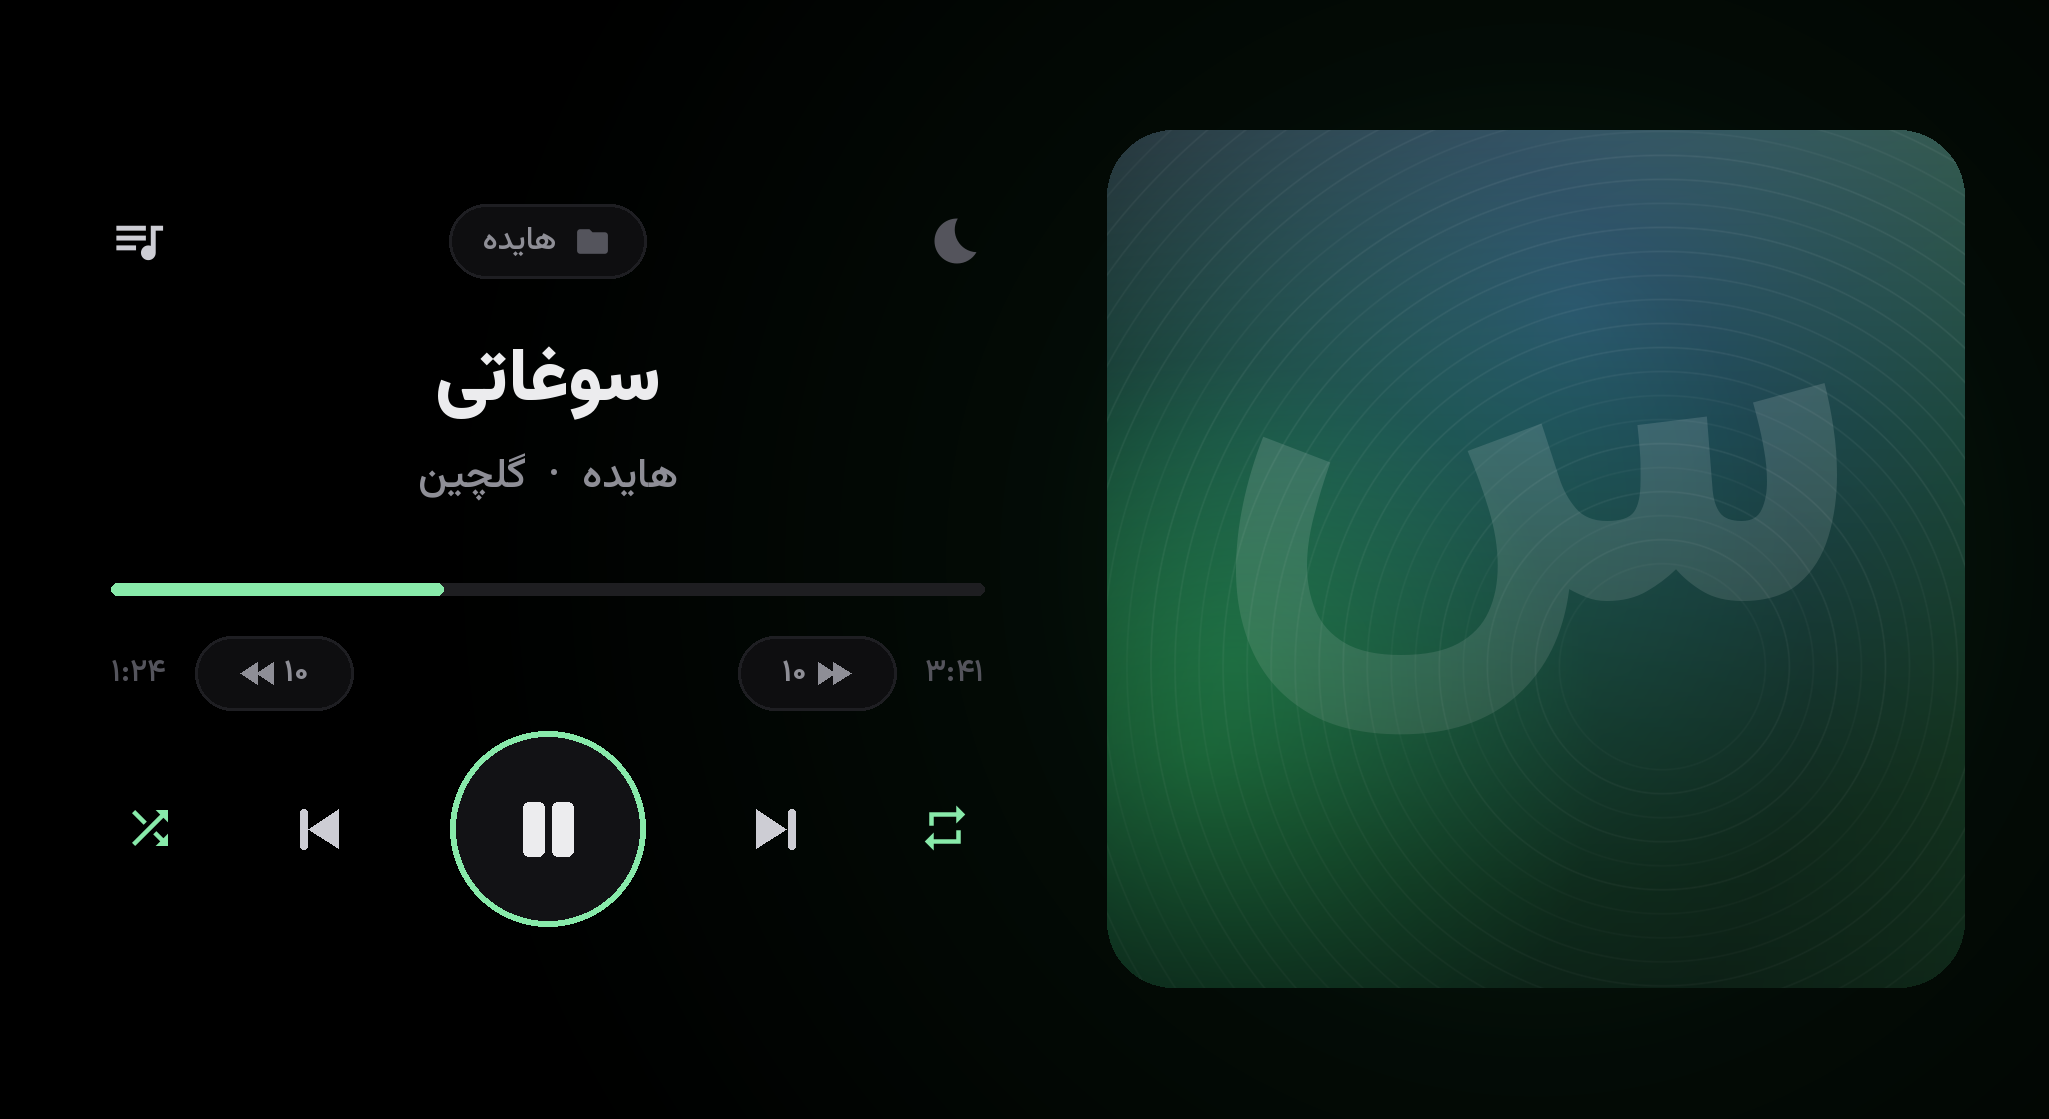
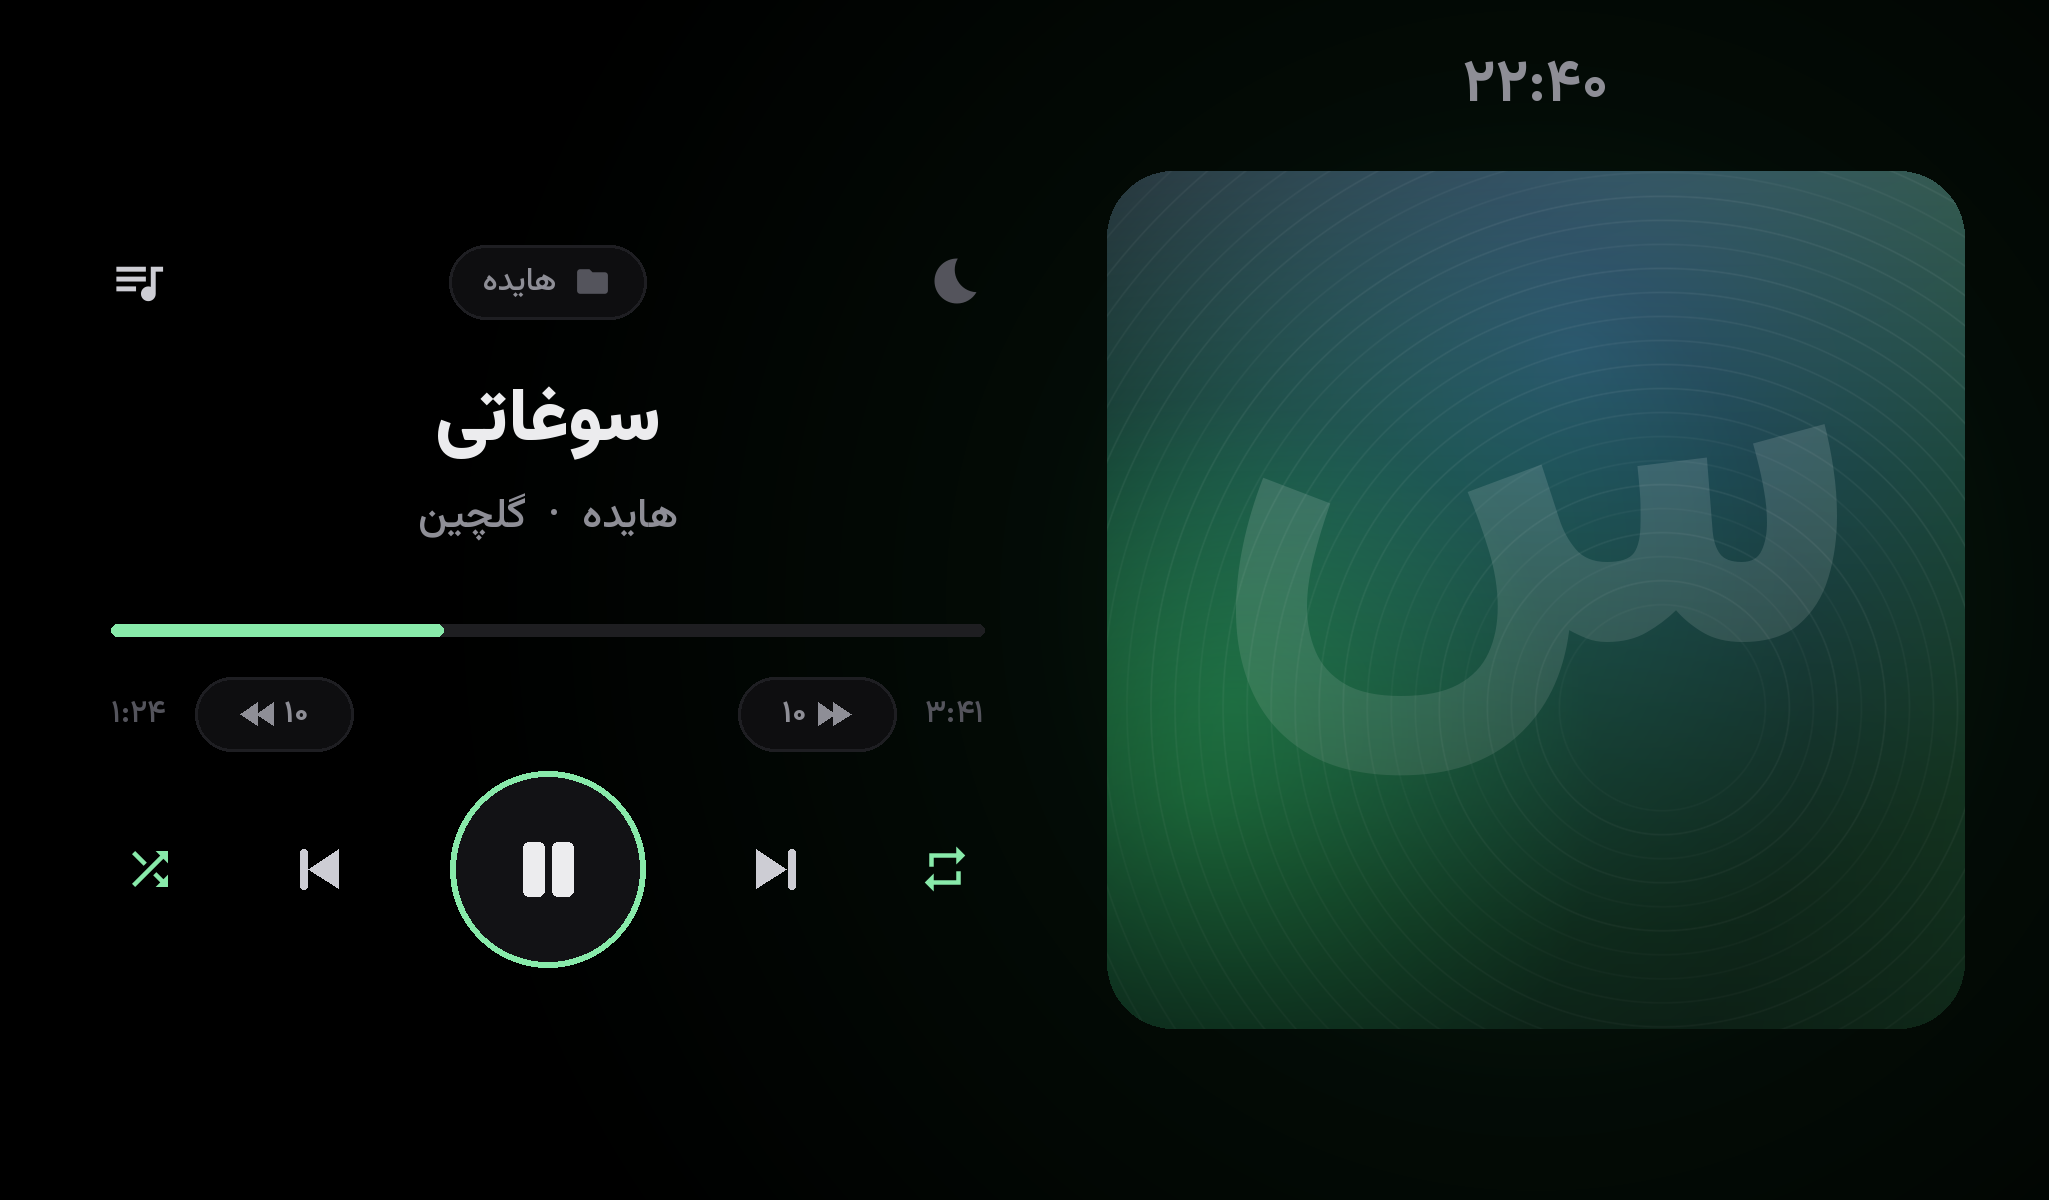
1.2.0: full-screen mode and on-screen clock
Claude-Session: https://claude.ai/code/session_011azxjQX34dZm2bbULXSmRn

diff --git a/app/src/main/java/ir/maniimani/geekmusic/Chrome.java b/app/src/main/java/ir/maniimani/geekmusic/Chrome.java
@@ -1,0 +1,136 @@
+package ir.maniimani.geekmusic;
+
+import android.app.Activity;
+import android.content.BroadcastReceiver;
+import android.content.Context;
+import android.content.Intent;
+import android.content.IntentFilter;
+import android.graphics.Typeface;
+import android.os.Handler;
+import android.os.Looper;
+import android.util.TypedValue;
+import android.view.Gravity;
+import android.view.View;
+import android.widget.FrameLayout;
+import android.widget.TextView;
+
+import java.util.Calendar;
+
+/**
+ * Full-screen ("immersive") mode plus an on-screen clock.
+ * The head unit's top bar is hidden; a swipe down from the top edge or a tap on the thin
+ * strip along the top shows it again for a few seconds.
+ */
+final class Chrome {
+
+    private static final int HIDDEN = View.SYSTEM_UI_FLAG_LAYOUT_STABLE
+            | View.SYSTEM_UI_FLAG_LAYOUT_FULLSCREEN
+            | View.SYSTEM_UI_FLAG_LAYOUT_HIDE_NAVIGATION
+            | View.SYSTEM_UI_FLAG_FULLSCREEN
+            | View.SYSTEM_UI_FLAG_HIDE_NAVIGATION
+            | View.SYSTEM_UI_FLAG_IMMERSIVE_STICKY;
+    private static final int SHOWN = View.SYSTEM_UI_FLAG_LAYOUT_STABLE
+            | View.SYSTEM_UI_FLAG_LAYOUT_FULLSCREEN
+            | View.SYSTEM_UI_FLAG_LAYOUT_HIDE_NAVIGATION;
+    private static final long SHOW_FOR_MS = 4000;
+
+    private final Activity activity;
+    private final Handler main = new Handler(Looper.getMainLooper());
+    private final Runnable hide = this::hide;
+    private TextView clock;
+
+    Chrome(Activity a) {
+        activity = a;
+        // when the bar comes back for any reason (swipe, system), hide it again after a moment
+        a.getWindow().getDecorView().setOnSystemUiVisibilityChangeListener(vis -> {
+            if ((vis & View.SYSTEM_UI_FLAG_FULLSCREEN) == 0) {
+                main.removeCallbacks(hide);
+                main.postDelayed(hide, SHOW_FOR_MS);
+            }
+        });
+    }
+
+    void hide() {
+        main.removeCallbacks(hide);
+        activity.getWindow().getDecorView().setSystemUiVisibility(HIDDEN);
+    }
+
+    void showBriefly() {
+        activity.getWindow().getDecorView().setSystemUiVisibility(SHOWN);
+        main.removeCallbacks(hide);
+        main.postDelayed(hide, SHOW_FOR_MS);
+    }
+
+    /** Thin invisible strip along the top edge: tap it to bring the bar back. */
+    void addTopStrip(FrameLayout root, int heightPx) {
+        View strip = new View(activity);
+        strip.setOnClickListener(v -> showBriefly());
+        strip.setContentDescription("نمایش نوار بالا");
+        root.addView(strip, new FrameLayout.LayoutParams(FrameLayout.LayoutParams.MATCH_PARENT, heightPx, Gravity.TOP));
+    }
+
+    // ------------------------------------------------------------------ clock
+
+    TextView createClock(Typeface face, float sp, int color) {
+        clock = new TextView(activity);
+        clock.setTypeface(face);
+        clock.setTextSize(TypedValue.COMPLEX_UNIT_SP, sp);
+        clock.setTextColor(color);
+        clock.setGravity(Gravity.CENTER);
+        clock.setIncludeFontPadding(false);
+        clock.setLetterSpacing(0.04f);
+        updateClock();
+        return clock;
+    }
+
+    private final BroadcastReceiver tick = new BroadcastReceiver() {
+        @Override
+        public void onReceive(Context c, Intent i) {
+            updateClock();
+        }
+    };
+
+    void start() {
+        IntentFilter f = new IntentFilter();
+        f.addAction(Intent.ACTION_TIME_TICK);
+        f.addAction(Intent.ACTION_TIME_CHANGED);
+        f.addAction(Intent.ACTION_TIMEZONE_CHANGED);
+        activity.registerReceiver(tick, f);
+        updateClock();
+        hide();
+    }
+
+    void stop() {
+        try {
+            activity.unregisterReceiver(tick);
+        } catch (Throwable ignored) {
+        }
+        main.removeCallbacks(hide);
+    }
+
+    private void updateClock() {
+        if (clock == null) return;
+        Calendar c = Calendar.getInstance();
+        int h = c.get(Calendar.HOUR_OF_DAY), m = c.get(Calendar.MINUTE);
+        String s = h + ":" + (m < 10 ? "0" : "") + m;
+        StringBuilder b = new StringBuilder();
+        for (char ch : s.toCharArray()) b.append(ch >= '0' && ch <= '9' ? (char) ('۰' + (ch - '0')) : ch);
+        clock.setText(b.toString());
+    }
+
+    /** Centre the clock horizontally over {@code anchor}, vertically in the gap above it. */
+    void placeClockAbove(View anchor, int minGapPx) {
+        if (clock == null) return;
+        int top = anchor.getTop() + ((View) anchor.getParent()).getTop();
+        int left = anchor.getLeft() + ((View) anchor.getParent()).getLeft();
+        int ch = clock.getHeight() > 0 ? clock.getHeight() : clock.getMeasuredHeight();
+        boolean fits = top >= ch + minGapPx;
+        clock.setVisibility(fits ? View.VISIBLE : View.INVISIBLE);
+        FrameLayout.LayoutParams lp = (FrameLayout.LayoutParams) clock.getLayoutParams();
+        lp.gravity = Gravity.TOP | Gravity.LEFT;
+        lp.width = anchor.getWidth();
+        lp.leftMargin = left;
+        lp.topMargin = Math.max(0, (top - ch) / 2);
+        clock.setLayoutParams(lp);
+    }
+}

diff --git a/app/src/main/java/ir/maniimani/geekmusic/MainActivity.java b/app/src/main/java/ir/maniimani/geekmusic/MainActivity.java
@@ -74,6 +74,8 @@ public class MainActivity extends Activity implements PlayerService.Listener, Li
     private PlayButton btnPlay;
     private View dimOverlay;
     private LibraryPanel library;
+    private Chrome chrome;
+    private TextView clock;
     private boolean libraryOpen;
 
     private Art.Palette palette = Art.NEUTRAL;
@@ -130,6 +132,7 @@ public class MainActivity extends Activity implements PlayerService.Listener, Li
     @Override
     protected void onResume() {
         super.onResume();
+        chrome.start();
         lib.addListener(this);
         main.post(tick);
         if (svc != null) applyAll(false);
@@ -140,6 +143,7 @@ public class MainActivity extends Activity implements PlayerService.Listener, Li
     protected void onPause() {
         lib.removeListener(this);
         main.removeCallbacks(tick);
+        chrome.stop();
         super.onPause();
     }
 
@@ -188,6 +192,12 @@ public class MainActivity extends Activity implements PlayerService.Listener, Li
             main.postDelayed(this, 250);
         }
     };
+
+    @Override
+    public void onWindowFocusChanged(boolean hasFocus) {
+        super.onWindowFocusChanged(hasFocus);
+        if (hasFocus) chrome.hide();
+    }
 
     @Override
     public void onBackPressed() {
@@ -408,6 +418,7 @@ public class MainActivity extends Activity implements PlayerService.Listener, Li
     private void buildUi() {
         root = new FrameLayout(this);
         root.setLayoutDirection(View.LAYOUT_DIRECTION_LTR);
+        chrome = new Chrome(this);
         root.setBackgroundColor(Color.BLACK);
 
         glow = new GlowView(this);
@@ -539,6 +550,9 @@ public class MainActivity extends Activity implements PlayerService.Listener, Li
         controls.addView(btnRepeat, sq(46, 14));
         info.addView(controls, wrapCentered(dp(6)));
 
+        clock = chrome.createClock(fBold, 20, C_TEXT_2);
+        root.addView(clock, new FrameLayout.LayoutParams(ViewGroup.LayoutParams.WRAP_CONTENT, ViewGroup.LayoutParams.WRAP_CONTENT));
+
         // library slides in over everything
         library = new LibraryPanel(this, this, fRegular, fMedium, fBold);
         library.setVisibility(View.INVISIBLE);
@@ -550,6 +564,9 @@ public class MainActivity extends Activity implements PlayerService.Listener, Li
         dimOverlay.setClickable(false);
         dimOverlay.setFocusable(false);
         root.addView(dimOverlay, match());
+
+        // tap along the very top edge to bring the head unit's bar back for a moment
+        chrome.addTopStrip(root, dp(12));
 
         root.addOnLayoutChangeListener((v, l, t, r, b, ol, ot, or, ob) -> {
             int w = r - l, h = b - t;
@@ -578,7 +595,9 @@ public class MainActivity extends Activity implements PlayerService.Listener, Li
             content.addView(info);
         }
 
-        int artSize = landscape ? (int) Math.min(h - 2f * pad, w * 0.42f) : (int) Math.min(w - 2f * pad, h * 0.38f);
+        int clockSpace = dp(44); // room for the clock above the cover
+        int artSize = landscape ? (int) Math.min(h - 2f * pad - clockSpace, w * 0.42f)
+                : (int) Math.min(w - 2f * pad, h * 0.38f - clockSpace);
         artSize = Math.max(artSize, dp(120));
         art.setLayoutParams(new LinearLayout.LayoutParams(artSize, artSize));
 
@@ -610,6 +629,7 @@ public class MainActivity extends Activity implements PlayerService.Listener, Li
             float cx = (art.getLeft() + art.getWidth() / 2f) / (float) Math.max(1, w);
             float cy = (art.getTop() + art.getHeight() / 2f) / (float) Math.max(1, h);
             glow.setCenter(cx, cy);
+            chrome.placeClockAbove(art, dp(4));
         });
         if (!libraryOpen) library.setTranslationX(-w);
     }

diff --git a/CHANGELOG.md b/CHANGELOG.md
@@ -1,5 +1,9 @@
 # Changelog
 
+## 1.2.0
+- تمامصفحه: نوار بالای مانیتور پنهان میشه و با کشیدن یا لمس لبهی بالای صفحه چند ثانیه نمایش داده میشه (Full-screen: the head unit's top bar hides; swipe or tap the top edge to show it briefly)
+- ساعت بالای کاور (Clock above the cover)
+
 ## 1.1.0
 - کاور رفت سمت راست و دکمهها اومدن سمت راننده (Cover moved to the right; controls on the driver's side)
 - طراحی جدید دکمههای ۱۰ ثانیه جلو و عقب (Redesigned ±10 s buttons)
